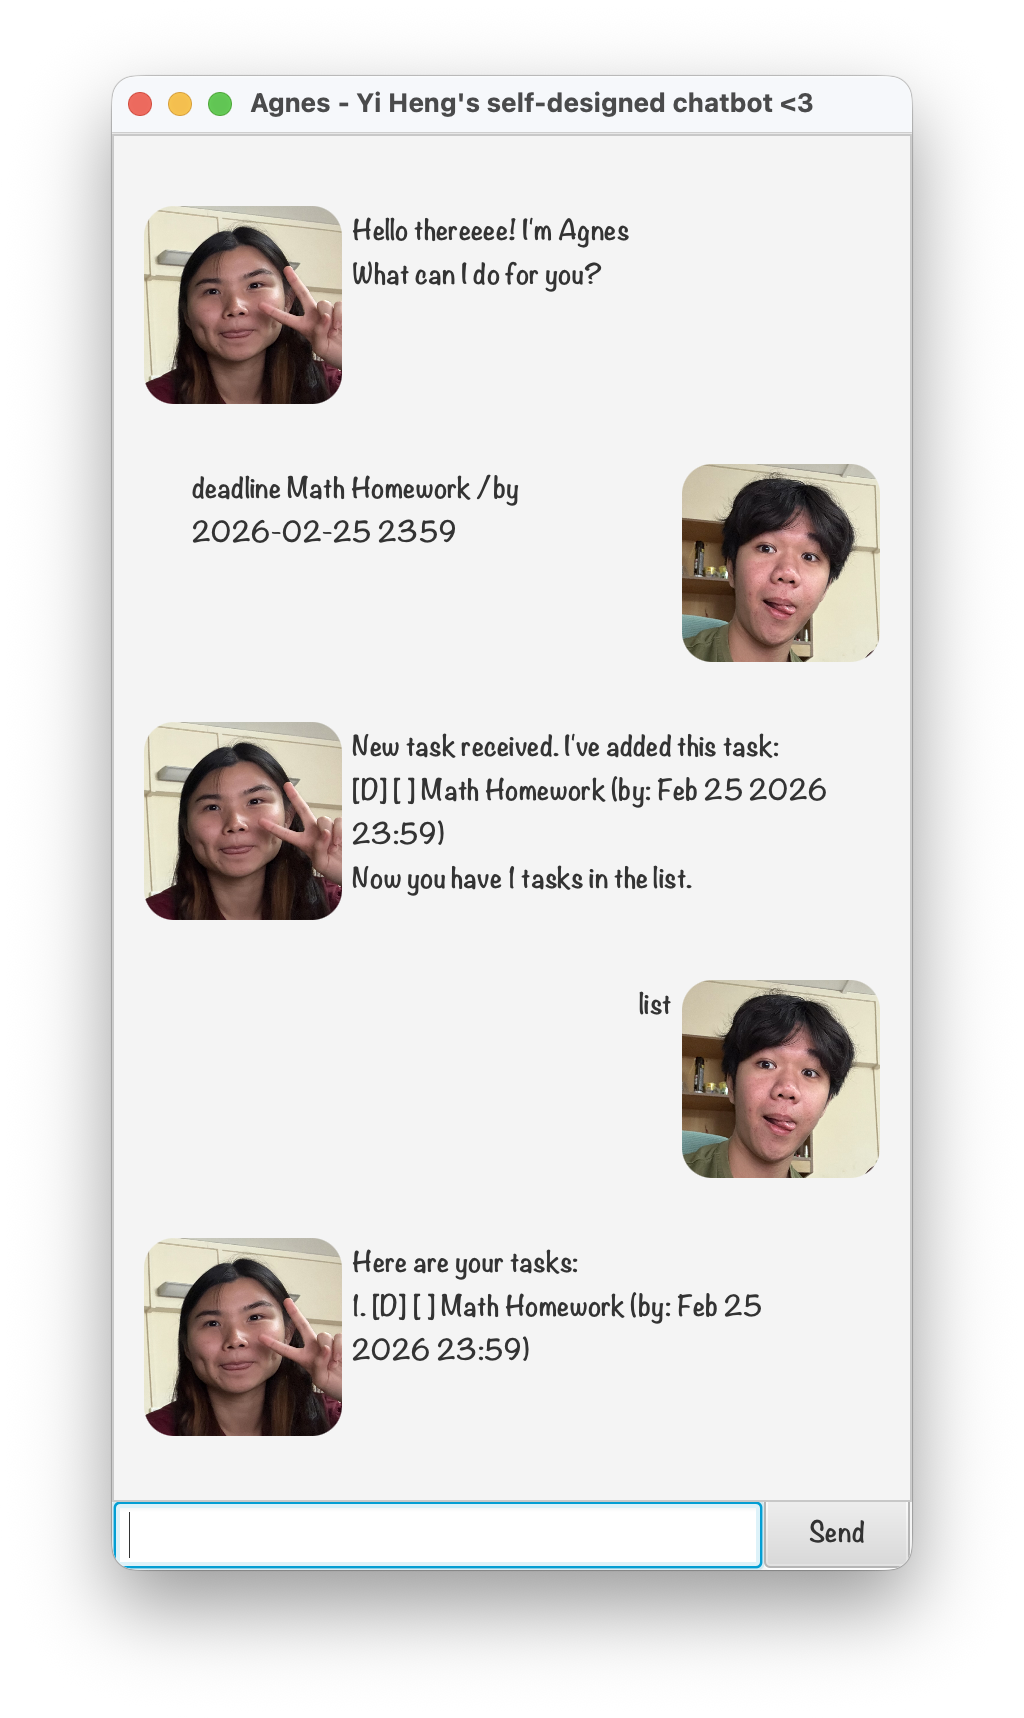
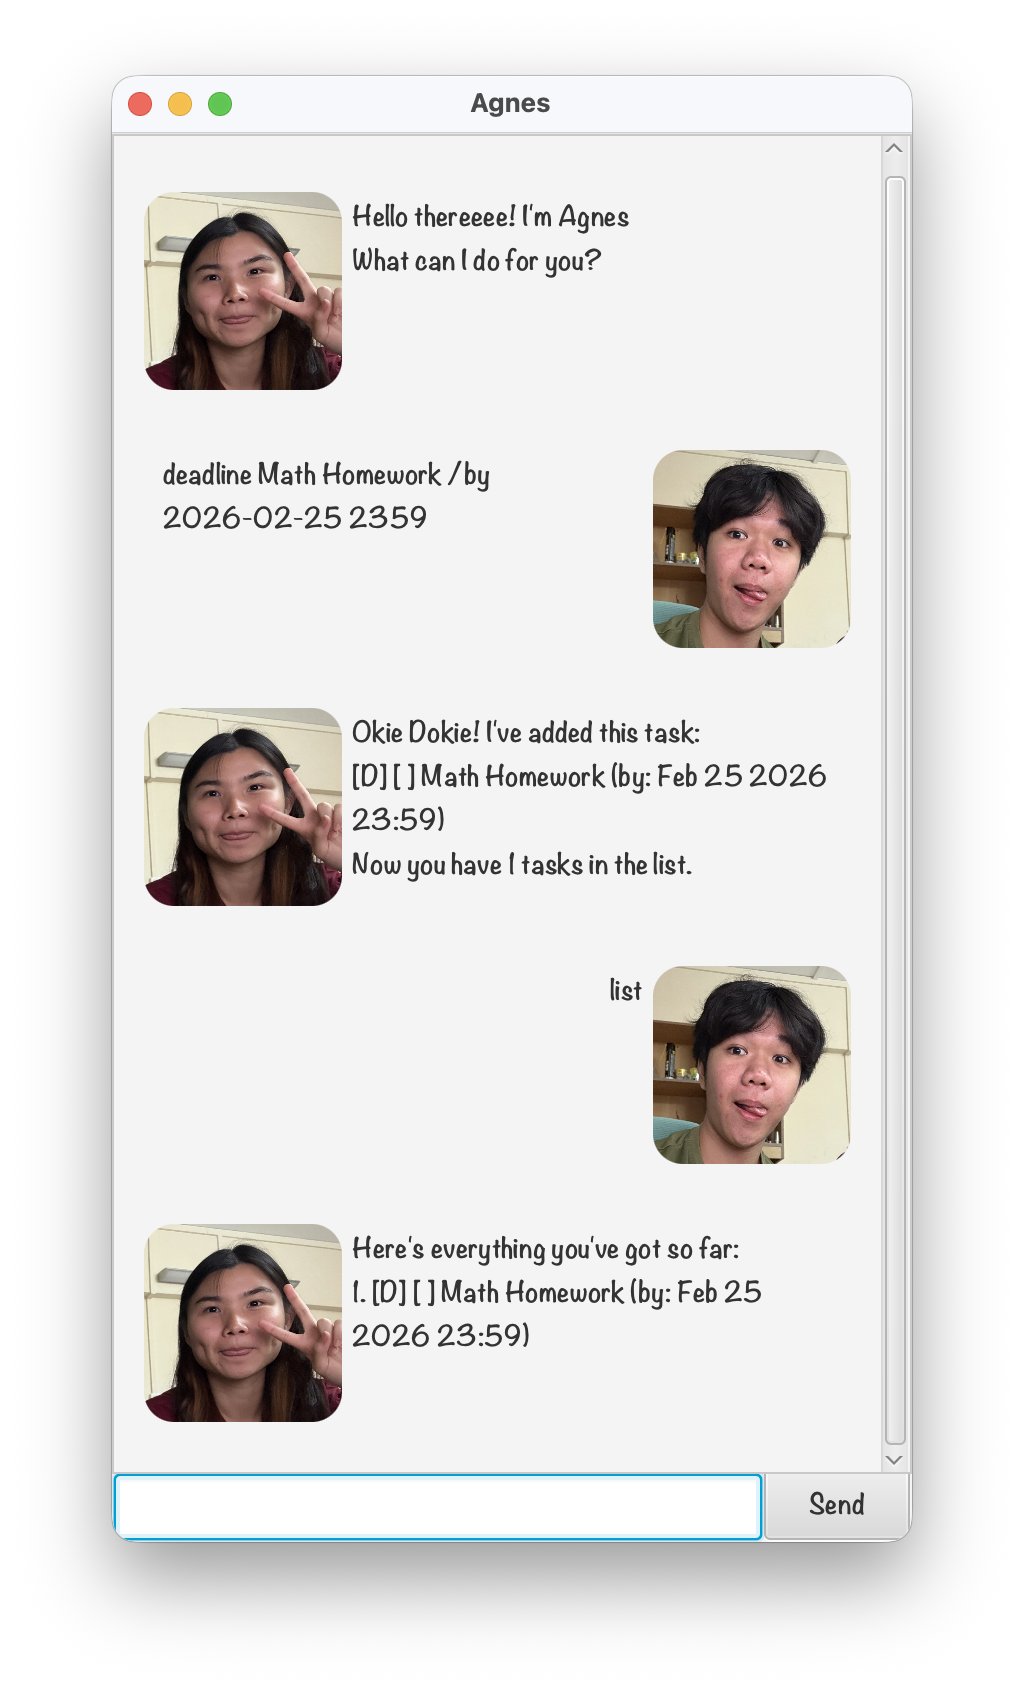
Edit chatbot replies to be more interesting

diff --git a/src/main/java/agnes/ui/Ui.java b/src/main/java/agnes/ui/Ui.java
@@ -68,7 +68,7 @@ public class Ui {
                         .mapToObj(i -> (i + 1) + ". " + tasks.get(i))
                         .collect(Collectors.toList());
 
-        lines.add(0, "Here are your tasks:");
+        lines.add(0, "Here's everything you've got so far:");
         return List.of(wrap(lines.toArray(new String[0])));
     }
 
@@ -94,13 +94,13 @@ public class Ui {
         assert tasks != null : "Task list for date display should not be null";
         assert date != null : "Date for filtering should not be null";
         if (tasks.isEmpty()) {
-            return List.of(wrap("No tasks found on " + date));
+            return List.of(wrap("AIYOOOOOO SWEE HENG LAH No tasks found on " + date));
         }
 
         List<String> lines = java.util.stream.IntStream.range(0, tasks.size())
                 .mapToObj(i -> (i + 1) + ". " + tasks.get(i))
                 .collect(Collectors.toList());
-        lines.add(0, "Tasks on " + date + ":");
+        lines.add(0, "Here's what I found on " + date + ":");
 
         return List.of(wrap(lines.toArray(new String[0])));
     }
@@ -124,7 +124,8 @@ public class Ui {
         List<String> lines = java.util.stream.IntStream.range(0, tasks.size())
                 .mapToObj(i -> (i + 1) + ". " + tasks.get(i))
                 .collect(Collectors.toList());
-        lines.add(0, "Matching tasks:");
+        lines.add(0, "\n"
+                + "Here's what I found for \"+ keyword +\":");
 
         return List.of(wrap(lines.toArray(new String[0])));
     }
@@ -140,7 +141,7 @@ public class Ui {
         assert t != null : "Added task should not be null";
         assert totalTasks >= 0 : "Total task count cannot be negative";
         return List.of(wrap(
-                "New task received. I've added this task:",
+                "Okie Dokie! I've added this task:",
                 t.toString(),
                 "Now you have " + totalTasks + " tasks in the list."
         ));
@@ -156,7 +157,7 @@ public class Ui {
         assert t != null : "Deleted task should not be null";
         assert totalTasks >= 0 : "Total task count cannot be negative";
         return List.of(wrap(
-                "Noted. I've removed this task:",
+                "Siao EH. I've removed this task:",
                 t.toString(),
                 "Now you have " + totalTasks + " tasks in the list."
         ));
@@ -172,7 +173,7 @@ public class Ui {
         assert task != null : "Marked task should not be null";
         String msg = isDone
                 ? "Nice! I've marked this task as done:"
-                : "OK, I've marked this task as not done yet:";
+                : "WTF... FINE..., I've marked this task as not done yet:";
         return List.of(wrap(
                 msg,
                 task.toString()
@@ -206,7 +207,7 @@ public class Ui {
     public List<String> getTaskUpdated(Task t) {
         assert t != null : "Deleted task should not be null";
         return List.of(wrap(
-                "Existing task updated. Here's the updated task:",
+                "Haode. Here's the updated task:",
                 t.toString()
         ));
     }

diff --git a/src/main/java/agnes/ui/Main.java b/src/main/java/agnes/ui/Main.java
@@ -23,7 +23,7 @@ public class Main extends Application {
             AnchorPane ap = fxmlLoader.load();
             Scene scene = new Scene(ap);
             stage.setScene(scene);
-            stage.setTitle("Agnes - Yi Heng's self-designed chatbot <3");
+            stage.setTitle("Agnes");
 
             setWindowDimensions(stage);
             fxmlLoader.<MainWindow>getController().setAgnes(agnes); // inject the Agnes instance

diff --git a/docs/README.md b/docs/README.md
@@ -27,7 +27,7 @@ todo eat at PGP
 
 **Agnes will reply:**
 ```
-New task received. I've added this task:
+Okie Dokie! I've added this task:
   [T][ ] eat at PGP
 Now you have 1 tasks in the list.
 ```
@@ -49,7 +49,7 @@ deadline buy cake /by 2026-03-15
 
 **Agnes will reply:**
 ```
-New task received. I've added this task:
+Okie Dokie! I've added this task:
   [D][ ] buy cake (by: Mar 15 2026)
 Now you have 2 tasks in your list.
 ```
@@ -71,7 +71,7 @@ event birthday party /from 2026-03-20 1800 /to 2026-03-20 2200
 
 **Agnes will reply:**
 ```
-New task received. I've added this task:
+Okie Dokie! I've added this task:
   [E][ ] birthday party (from: Mar 20 2026 6:00 PM to: Mar 20 2026 10:00 PM)
 Now you have 3 tasks in your list.
 ```
@@ -87,7 +87,7 @@ list
 
 **Agnes will reply:**
 ```
-Here are your tasks:
+Here's everything you've got so far:
 1. [T][ ] eat at PGP
 2. [D][ ] buy cake (by: Mar 15 2026)
 3. [E][ ] birthday party (from: Mar 20 2026 6:00 PM to: Mar 20 2026 10:00 PM)
@@ -123,7 +123,7 @@ unmark 1
 
 **Agnes will reply:**
 ```
-OK, I've marked this task as not done yet:
+WTF... FINE..., I've marked this task as not done yet:
   [T][ ] eat at PGP
 ```
 
@@ -141,7 +141,7 @@ delete 2
 
 **Agnes will reply:**
 ```
-Noted. I've removed this task:
+Siao EH. I've removed this task:
   [D][ ] buy cake (by: Mar 15 2026)
 Now you have 2 tasks in your list.
 ```
@@ -160,7 +160,7 @@ find party
 
 **Agnes will reply:**
 ```
-Matching tasks:
+Here's what I found for "party":
 1. [E][ ] birthday party (from: Mar 20 2026 6:00 PM to: Mar 20 2026 10:00 PM)
 ```
 
@@ -182,7 +182,7 @@ on 2026-03-20
 
 **Agnes will reply:**
 ```
-Tasks on 2026-03-20:
+Here's what I found on 2026-03-20:
 1. [E][ ] birthday party (from: Mar 20 2026 6:00 PM to: Mar 20 2026 10:00 PM)
 ```
 
@@ -206,7 +206,7 @@ update 1 /description Agnes's birthday party
 
 **Agnes will reply:**
 ```
-Existing task updated. Here's the updated task:
+Haode. Here's the updated task:
 1. [E][ ] Agnes's birthday party (from: Mar 20 2026 6:00 PM to: Mar 20 2026 10:00 PM)
 ```
 
